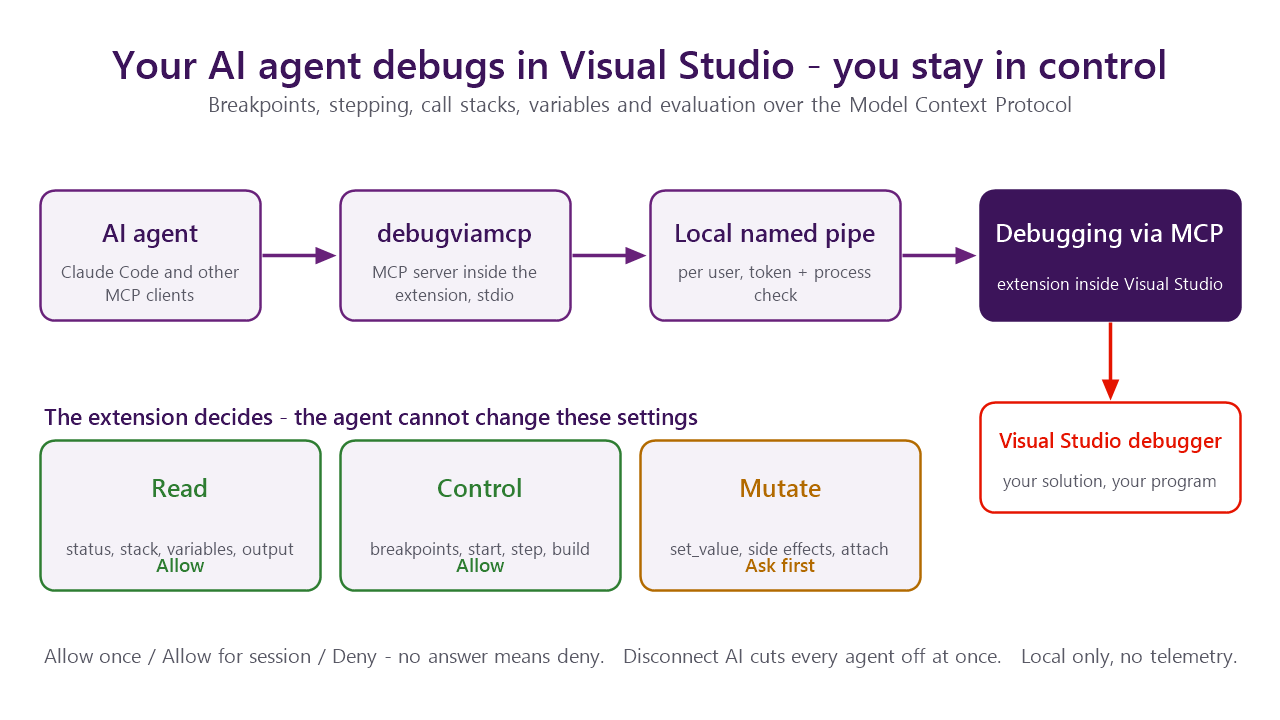
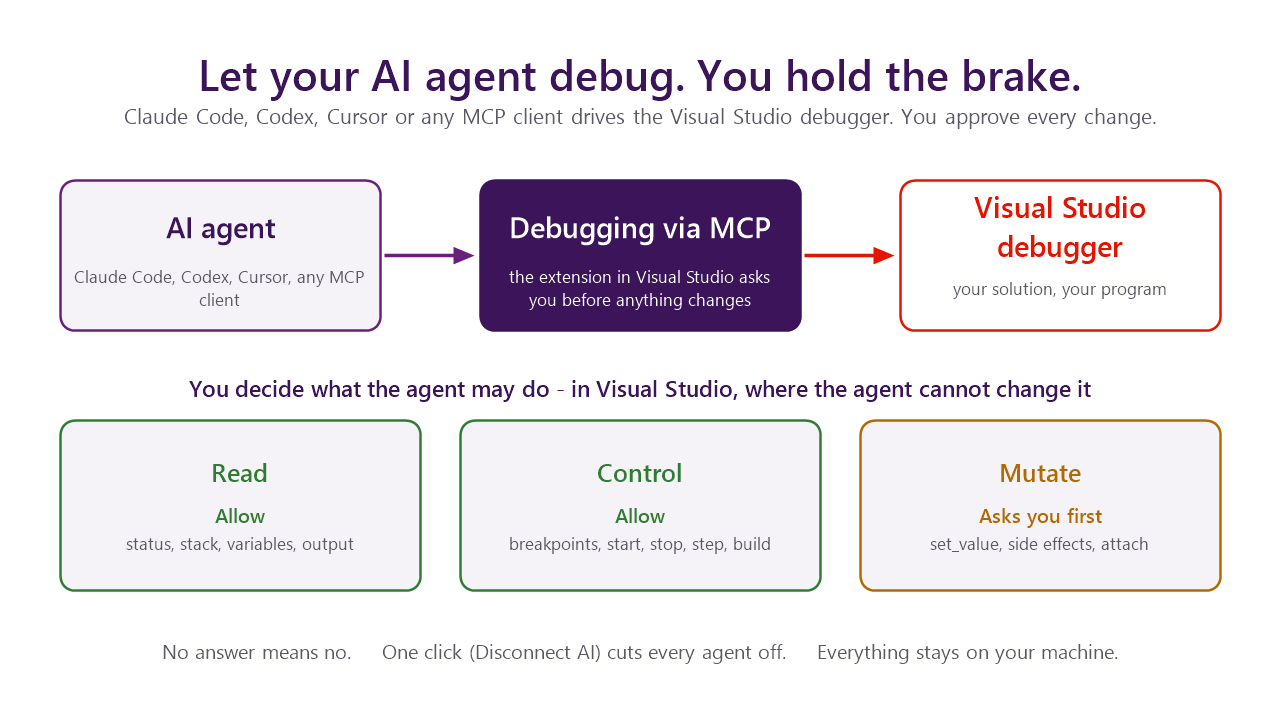
docs(marketplace): a simpler how-it-works image and a shorter overview that opens with an example

diff --git a/docs/marketplace/overview.md b/docs/marketplace/overview.md
@@ -1,81 +1,91 @@
 # Debugging via MCP
 
-Let AI coding agents such as **Claude Code** drive the Visual Studio debugger over the
-[Model Context Protocol](https://modelcontextprotocol.io): set breakpoints, start and step, read the call stack and
-variables, and evaluate expressions — while you stay in control.
+**Let your AI agent debug in Visual Studio, and keep your hand on the brake.**
+
+Ask Claude Code, Codex or Cursor to chase a bug and it can set breakpoints, step through your code, read variables and
+evaluate expressions in the real debugger. Anything that would change your program waits for your OK.
+
+> *"Break in OrderService.Submit when total > 1000 and show me the order."*
+
+Here is what happens:
+
+1. The agent sets a conditional breakpoint. The condition runs inside your program, so Visual Studio asks you first:
+   *Allow once*, *Allow for session* or *Deny*.
+2. It starts debugging and waits for the hit.
+3. It reads the call stack and the order, and tells you what it found.
 
 ![How Debugging via MCP works](https://raw.githubusercontent.com/msx752/DebugViaMcp/main/docs/marketplace/images/how-it-works.png)
 
-## What the agent can do
+## Why you'll like it
 
-27 tools, in these groups:
-
-- **Breakpoints** (`bp_set`, `bp_list`, `bp_enable`, `bp_remove`) — file/line or function, conditions, hit counts, tracepoints (log without stopping)
-- **Execution** (`debug_start`, `debug_continue`, `debug_pause`, `debug_step`, `debug_run_to`, `debug_wait`, `debug_stop`, `debug_attach`) — start (the solution's startup project or a named project, which leaves your startup project alone), continue, pause, step into/over/out, run to a line, wait for the next break, attach to a running process (stopping detaches without ending it)
-- **Inspection** (`debug_status`, `threads`, `stack`, `frame_select`, `vars`, `eval`, `exception`) — mode and break reason, threads, call stack, frame selection, locals and arguments with drill-down into members (`order.Lines[2]`), QuickWatch-style evaluation, the current exception with inner exceptions and throw site
-- **IDE state** (`vs_build`, `errors_list`, `output_read`) — Visual Studio builds, the Error List, and the Output window panes (the build and debug panes by name)
-- **Several Visual Studios** (`vs_instances`, `vs_select`, `vs_release`) — one agent each: the instance is chosen by the folder the agent runs in, an agent from an unrelated folder needs the owner's approval, and a second agent gets `in_use` until the first calls `vs_release`
-- **Changes** (`set_value`, `eval` with side effects, breakpoint conditions and tracepoints, `debug_attach`) — **only with your approval**
-- **Diagnostics** (`diag`) — the MCP server's own log
-
-`debug_start`, `debug_attach` and `bp_set` warn when the built program is older than the sources, and Visual Studio offers an optional **Build** bar.
-
-## You stay in control
-
-- **Permission tiers** — **Read**, **Control** and **Mutate**, each set to Allow, Ask or Deny in
-  **Tools → Options → All Settings → Debugging → Debugging via MCP**. Visual Studio enforces them; the agent cannot change them.
-  - *Read* (default Allow): status, threads, call stack, variables, evaluation without side effects, the current exception, the Output window and the Error List.
-  - *Control* (default Allow): breakpoints without conditions, start, stop, continue, pause, step, run to, and Visual Studio builds.
-  - *Mutate* (default **Ask**): `set_value`, evaluation with side effects, breakpoint conditions and tracepoints (they run in your program on every hit), and attaching to a process.
-- **Consent info bar** — before anything in Mutate (or anything set to Ask) runs, Visual Studio asks in an info bar:
-  *Allow once*, *Allow for session* or *Deny*. No answer within the consent timeout (60 s by default, 15–300) means deny.
-- **Audit trail** — every state change is logged with a call id and shown in
-  **View → Output → Debugging via MCP Audit**.
-- **Disconnect AI** — **Extensions → Debugging via MCP → Disconnect AI** (Ctrl+Alt+Shift+F12) denies pending questions and cuts the agent off at once; **Reconnect AI** lets it back in.
-- **Local only** — a per-user named pipe; no network, no telemetry.
-
-The **Extensions → Debugging via MCP** menu also has **Set Up AI Agent…**, **Show Audit**, **Open Logs Folder** and **Options…**.
-Other settings: accept AI connections when Visual Studio starts, the status bar indicator, log level, the longest wait for a break
-(default 120 s) and for a build (default 600 s), and log retention (default 7 days).
-
-![Several Visual Studios, one agent each](https://raw.githubusercontent.com/msx752/DebugViaMcp/main/docs/marketplace/images/several-visual-studios.png)
-
-## Before you start
-
-The extension alone does nothing visible: it opens a local connection that an AI agent uses. You need three things.
-
-1. **This extension** (Visual Studio 2022 17.14+ or Visual Studio 2026).
-2. **The .NET 10 runtime** (the MCP server that comes with the extension is a .NET program).
-3. **An MCP client**, for example [Claude Code](https://claude.com/claude-code).
+- **The real debugger.** Your solution, your breakpoints, your Output window and Error List. No guessing from logs.
+- **You decide.** Read, Control and Mutate are each set to Allow, Ask or Deny. By default the agent may look and steer
+  freely and has to ask before it changes anything.
+- **Nothing leaves your machine.** A per-user local pipe. No network, no telemetry.
+- **Bring your own agent.** Any MCP client works. A setup window gives you the exact command for Claude Code, Codex and Cursor.
 
 ## Get started
 
-1. Install this extension (Visual Studio 2022 17.14+ or Visual Studio 2026), then restart Visual Studio.
-2. Tell your AI client about the MCP server. The extension installs the server itself when Visual Studio starts
-   (into `%LOCALAPPDATA%\DebugViaMcp`), so only the registration is left. In Visual Studio, open
-   **Extensions → Debugging via MCP → Set Up AI Agent…**, pick your client (Claude Code, Codex, Cursor or another MCP
-   client) and copy the command or configuration shown under it. For Claude Code that is:
+1. Install the extension and restart Visual Studio. You need Visual Studio 2022 17.14+ or 2026, and the
+   [.NET 10 runtime](https://dotnet.microsoft.com/download/dotnet/10.0) (the MCP server that ships inside the extension is a .NET program).
+2. Open **Extensions → Debugging via MCP → Set Up AI Agent…**, pick your client and copy the command it shows. For Claude Code:
 
        claude mcp add --scope user debugviamcp -- "%LOCALAPPDATA%\DebugViaMcp\debugviamcp.cmd" serve
 
-   Debugging via MCP works with Visual Studio only for now; Visual Studio Code support is planned.
+3. Open your solution (the Output pane **Debugging via MCP Log** says *ready*) and ask your agent for something to debug.
 
-3. Open your solution in Visual Studio (the Output pane "Debugging via MCP Log" shows *ready*) and ask, for example: *"Break in OrderService.Submit when total > 1000 and show me the order."*
+Visual Studio only for now; Visual Studio Code support is planned.
+
+## You stay in control
+
+| Tier | What it covers | Default |
+|---|---|---|
+| **Read** | status, threads, call stack, variables, evaluation without side effects, the current exception, Output window, Error List | Allow |
+| **Control** | breakpoints without conditions, start, stop, continue, pause, step, run to, Visual Studio builds | Allow |
+| **Mutate** | `set_value`, evaluation with side effects, breakpoint conditions and tracepoints (they run in your program), attaching to a process | **Ask** |
+
+Change them in **Tools → Options → All Settings → Debugging → Debugging via MCP**. Visual Studio enforces them; the agent cannot.
+
+- **Consent bar.** A question appears as an info bar in Visual Studio. No answer within the timeout (60 s by default) means *deny*.
+- **Audit trail.** Every state change is logged with a call id in **View → Output → Debugging via MCP Audit** and in a file.
+- **Disconnect AI.** **Extensions → Debugging via MCP → Disconnect AI** (Ctrl+Alt+Shift+F12) denies pending questions and cuts
+  every agent off at once. **Reconnect AI** lets them back in.
+
+## What the agent can do
+
+27 tools in a few groups:
+
+- **Breakpoints:** set, list, enable, remove. File and line or function, conditions, hit counts, tracepoints.
+- **Execution:** start (the startup project or a named one), continue, pause, step, run to a line, wait for the next break, attach to a process, stop.
+- **Inspection:** status, threads, call stack, frame selection, locals and arguments with drill-down, evaluation, the current exception.
+- **IDE state:** Visual Studio builds, the Error List, Output window panes.
+- **Changes:** `set_value` and side-effect evaluation, always with your approval.
+- **Several Visual Studios:** list, select, release.
+- **Diagnostics:** the MCP server's own log.
+
+It also warns the agent when the built program is older than the sources, and Visual Studio offers an optional **Build** bar.
+
+## Several Visual Studios, one agent each
+
+With more than one Visual Studio open, the agent uses the one whose solution folder matches the folder it runs in. An agent from an
+unrelated folder needs your approval once, and a second agent gets `in_use` until the first lets go.
+
+![Several Visual Studios, one agent each](https://raw.githubusercontent.com/msx752/DebugViaMcp/main/docs/marketplace/images/several-visual-studios.png)
 
 ## Troubleshooting
 
 | Symptom | What to check |
 |---|---|
-| The agent says no Visual Studio instance is running | Visual Studio must be open with the Debugging via MCP extension installed (Extensions → Manage Extensions → Installed). Open a solution; the Output pane "Debugging via MCP Log" shows `ready` when it started. |
-| The agent cannot start the server | The server needs the .NET 10 runtime (`dotnet --list-runtimes`). Start Visual Studio once so the extension installs it, then check that `%LOCALAPPDATA%\DebugViaMcp\debugviamcp.cmd` exists; **Set Up AI Agent…** reports both. |
-| `ai_disabled` | Someone chose Extensions → Debugging via MCP → Disconnect AI. Choose Reconnect AI, then retry. |
-| `version_mismatch` or `unsupported` | Visual Studio still runs an older extension than the server in use (or the reverse). Restart Visual Studio after updating the extension, and restart the agent session. |
-| `in_use` | Another agent holds that Visual Studio; ask it to call `vs_release`, or use another instance (`vs_instances`). |
-| A consent question ended as `denied` / `timeout` | Visual Studio asks in an info bar at the top of its main window and waits 60 s (Tools → Options → All Settings → Debugging → Debugging via MCP → Consent timeout); no answer means deny. When Visual Studio is in the background its taskbar button flashes. Bring it forward, then ask the agent to retry. |
-| `eval` says a type or namespace does not exist | The expression evaluator only sees assemblies the program has already loaded. Use the type in the code before the breakpoint (for example call `JsonSerializer.Serialize` once), or evaluate something else. |
-| `eval` says `Evaluation timed out` | Visual Studio stops an evaluation after about 5 s. Evaluate a smaller expression (`Take(1000)`), or read a field or property. Code that waits for another thread (`Task.Result`, a lock held by a paused thread) cannot finish while the program is stopped. |
-| Uninstalling the extension hangs | The server does not run from the extension folder, so agents cannot block the removal. Close every Visual Studio window and any other VSIXInstaller, then try again. |
-| An out-of-date warning (or Build bar) after editing files outside Visual Studio | Visual Studio notices external edits late, sometimes only when its window is activated. Build in Visual Studio (or call `vs_build`) before debugging; the warning is a hint, it never blocks. With Visual Studio's default option **On Run, when projects are out of date = Always build** (Tools → Options → Projects and Solutions → Build and Run) Visual Studio builds by itself as debugging starts, so the warning and the bar only appear while a program is running, or when that option is Never build / Prompt to build. |
-| Something else | Call the `diag` tool for the server log, and look at View → Output → Debugging via MCP Log and Debugging via MCP Audit. |
+| The agent says no Visual Studio instance is running | Visual Studio must be open with a solution loaded and this extension installed. The **Debugging via MCP Log** pane shows `ready` when it started. |
+| The agent cannot start the server | Check the .NET 10 runtime (`dotnet --list-runtimes`), start Visual Studio once so the extension installs the server, and confirm `%LOCALAPPDATA%\DebugViaMcp\debugviamcp.cmd` exists. **Set Up AI Agent…** reports both. |
+| `ai_disabled` | Someone chose Disconnect AI. Choose Reconnect AI, then retry. |
+| `version_mismatch` or `unsupported` | Visual Studio runs an older extension than the server in use, or the reverse. Restart Visual Studio after updating, and restart the agent session. |
+| `in_use` | Another agent holds that Visual Studio. Ask it to call `vs_release`, or use another instance (`vs_instances`). |
+| A consent question ended as `denied` or `timeout` | Visual Studio asks in an info bar at the top of its main window and waits for the consent timeout (Tools → Options → All Settings → Debugging → Debugging via MCP). No answer means deny. Its taskbar button flashes when it is in the background. |
+| `eval` says a type or namespace does not exist | The evaluator only sees assemblies the program has already loaded. Use the type in the code before the breakpoint, or evaluate something else. |
+| `eval` says `Evaluation timed out` | Visual Studio stops an evaluation after about 5 s. Evaluate something smaller (`Take(1000)`) or read a field. Code that waits for another thread cannot finish while the program is stopped. |
+| An out-of-date warning after editing files outside Visual Studio | Visual Studio notices external edits late. Build in Visual Studio (or call `vs_build`) before debugging. The warning is a hint and never blocks. |
+| Uninstalling the extension hangs | Close every Visual Studio window and any other VSIXInstaller, then try again. A running agent does not block removal. |
+| Something else | Call the `diag` tool for the server log, and look at **Debugging via MCP Log** and **Debugging via MCP Audit** in View → Output. |
 
 Documentation, security model and source: [github.com/msx752/DebugViaMcp](https://github.com/msx752/DebugViaMcp)
